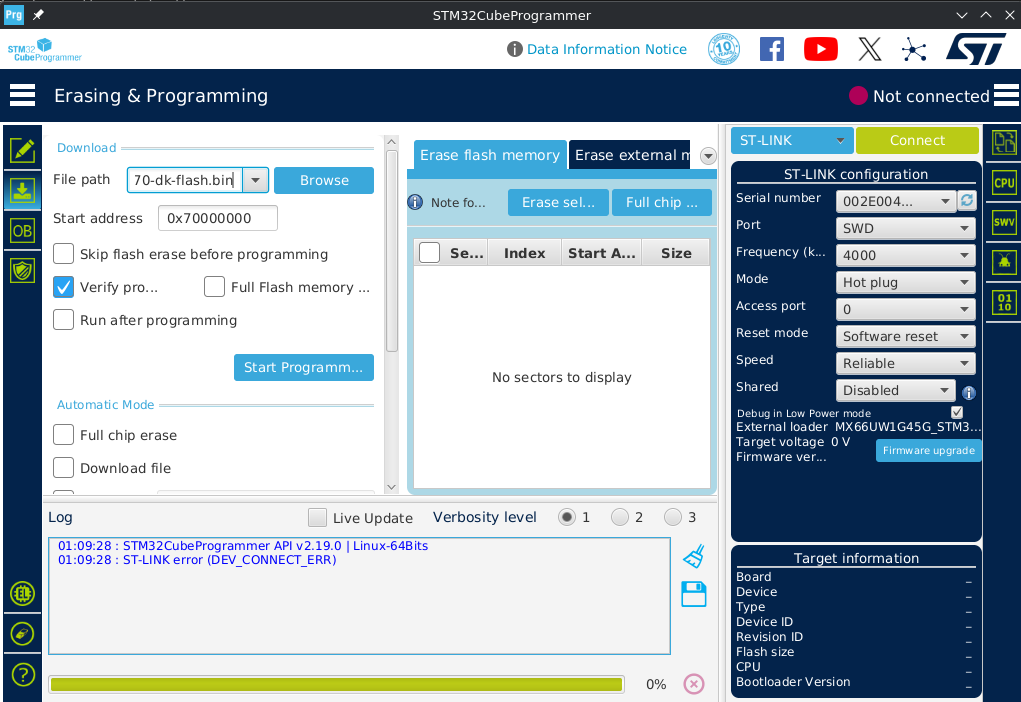
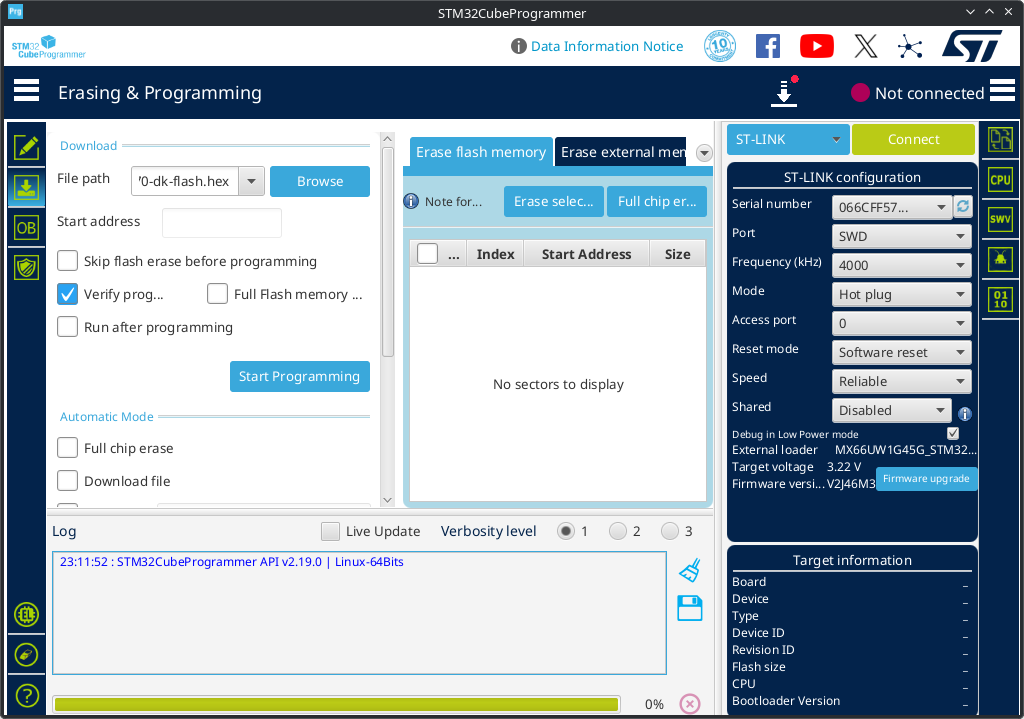
stm32n6: generate flash.hex to avoid having to set flash address in STM32CubeProgrammer
Update README.md accordingly.

Changed region(s): [[0.0, 0.0, 1.0, 1.0], [0.4858, 0.5085, 0.6072, 0.5684]]

diff --git a/README.md b/README.md
@@ -43,8 +43,7 @@ To do this, you must do the following:
 
   - Connect to the board in STM32CubeProgrammer
   - On the left, click the second icon `Erasing & Programing`
-  - In Download, File path, select the `damc_stm32n6570-dk-flash.bin` file
-  - Set `Start Address` to `0x70000000`
+  - In Download, File path, select the `damc_stm32n6570-dk-flash.hex` file
   - Click "Start Programm..." to flash the board
   - ![image](images/stm32n6_stm32cubeprogrammer_flash.png)
  
